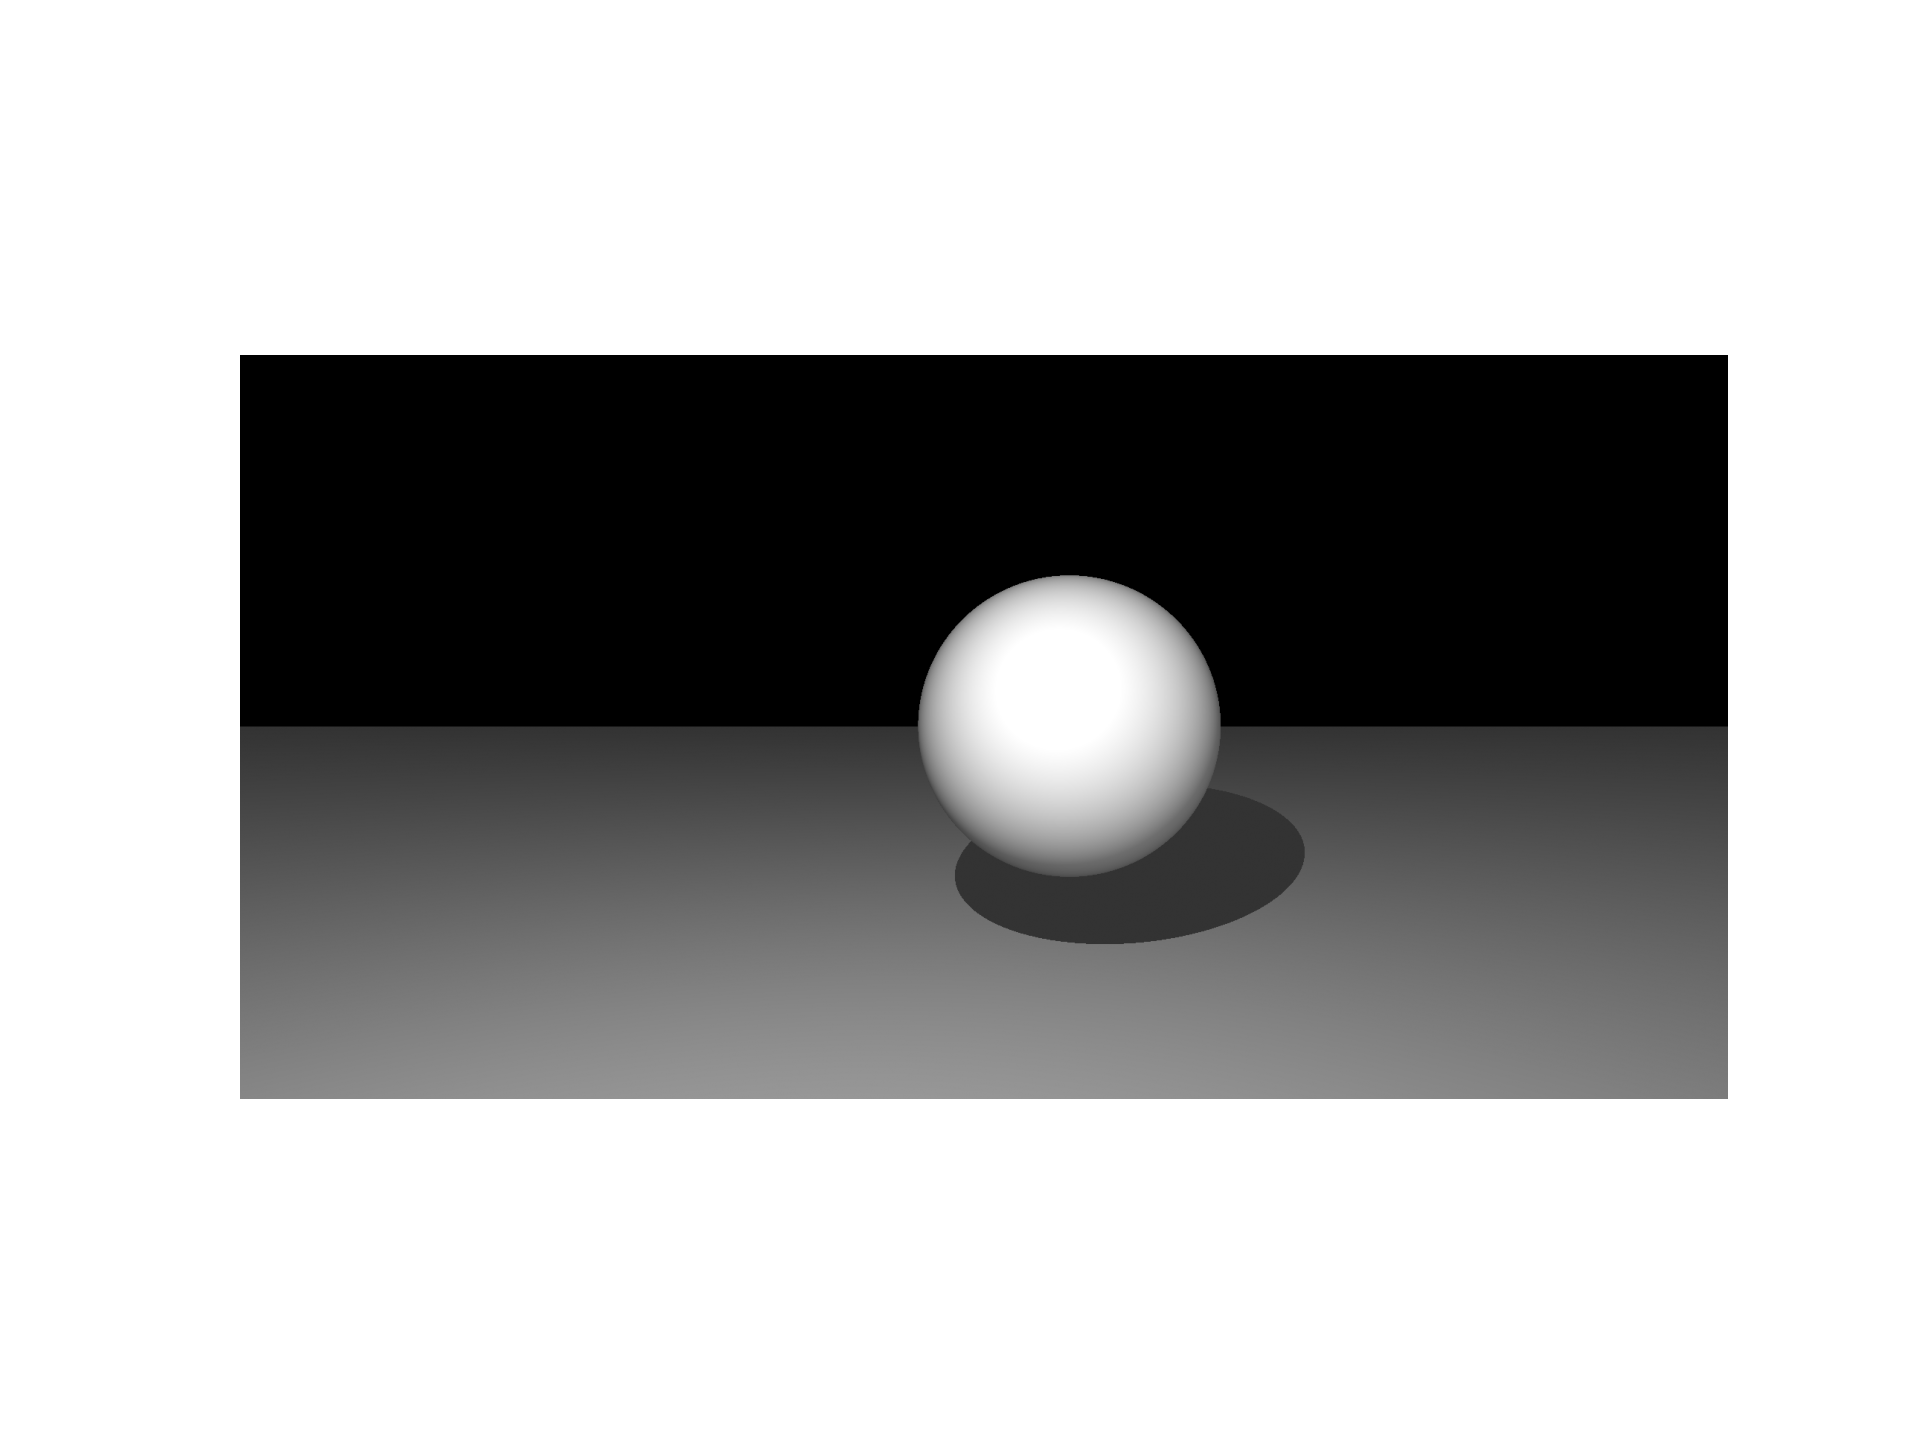
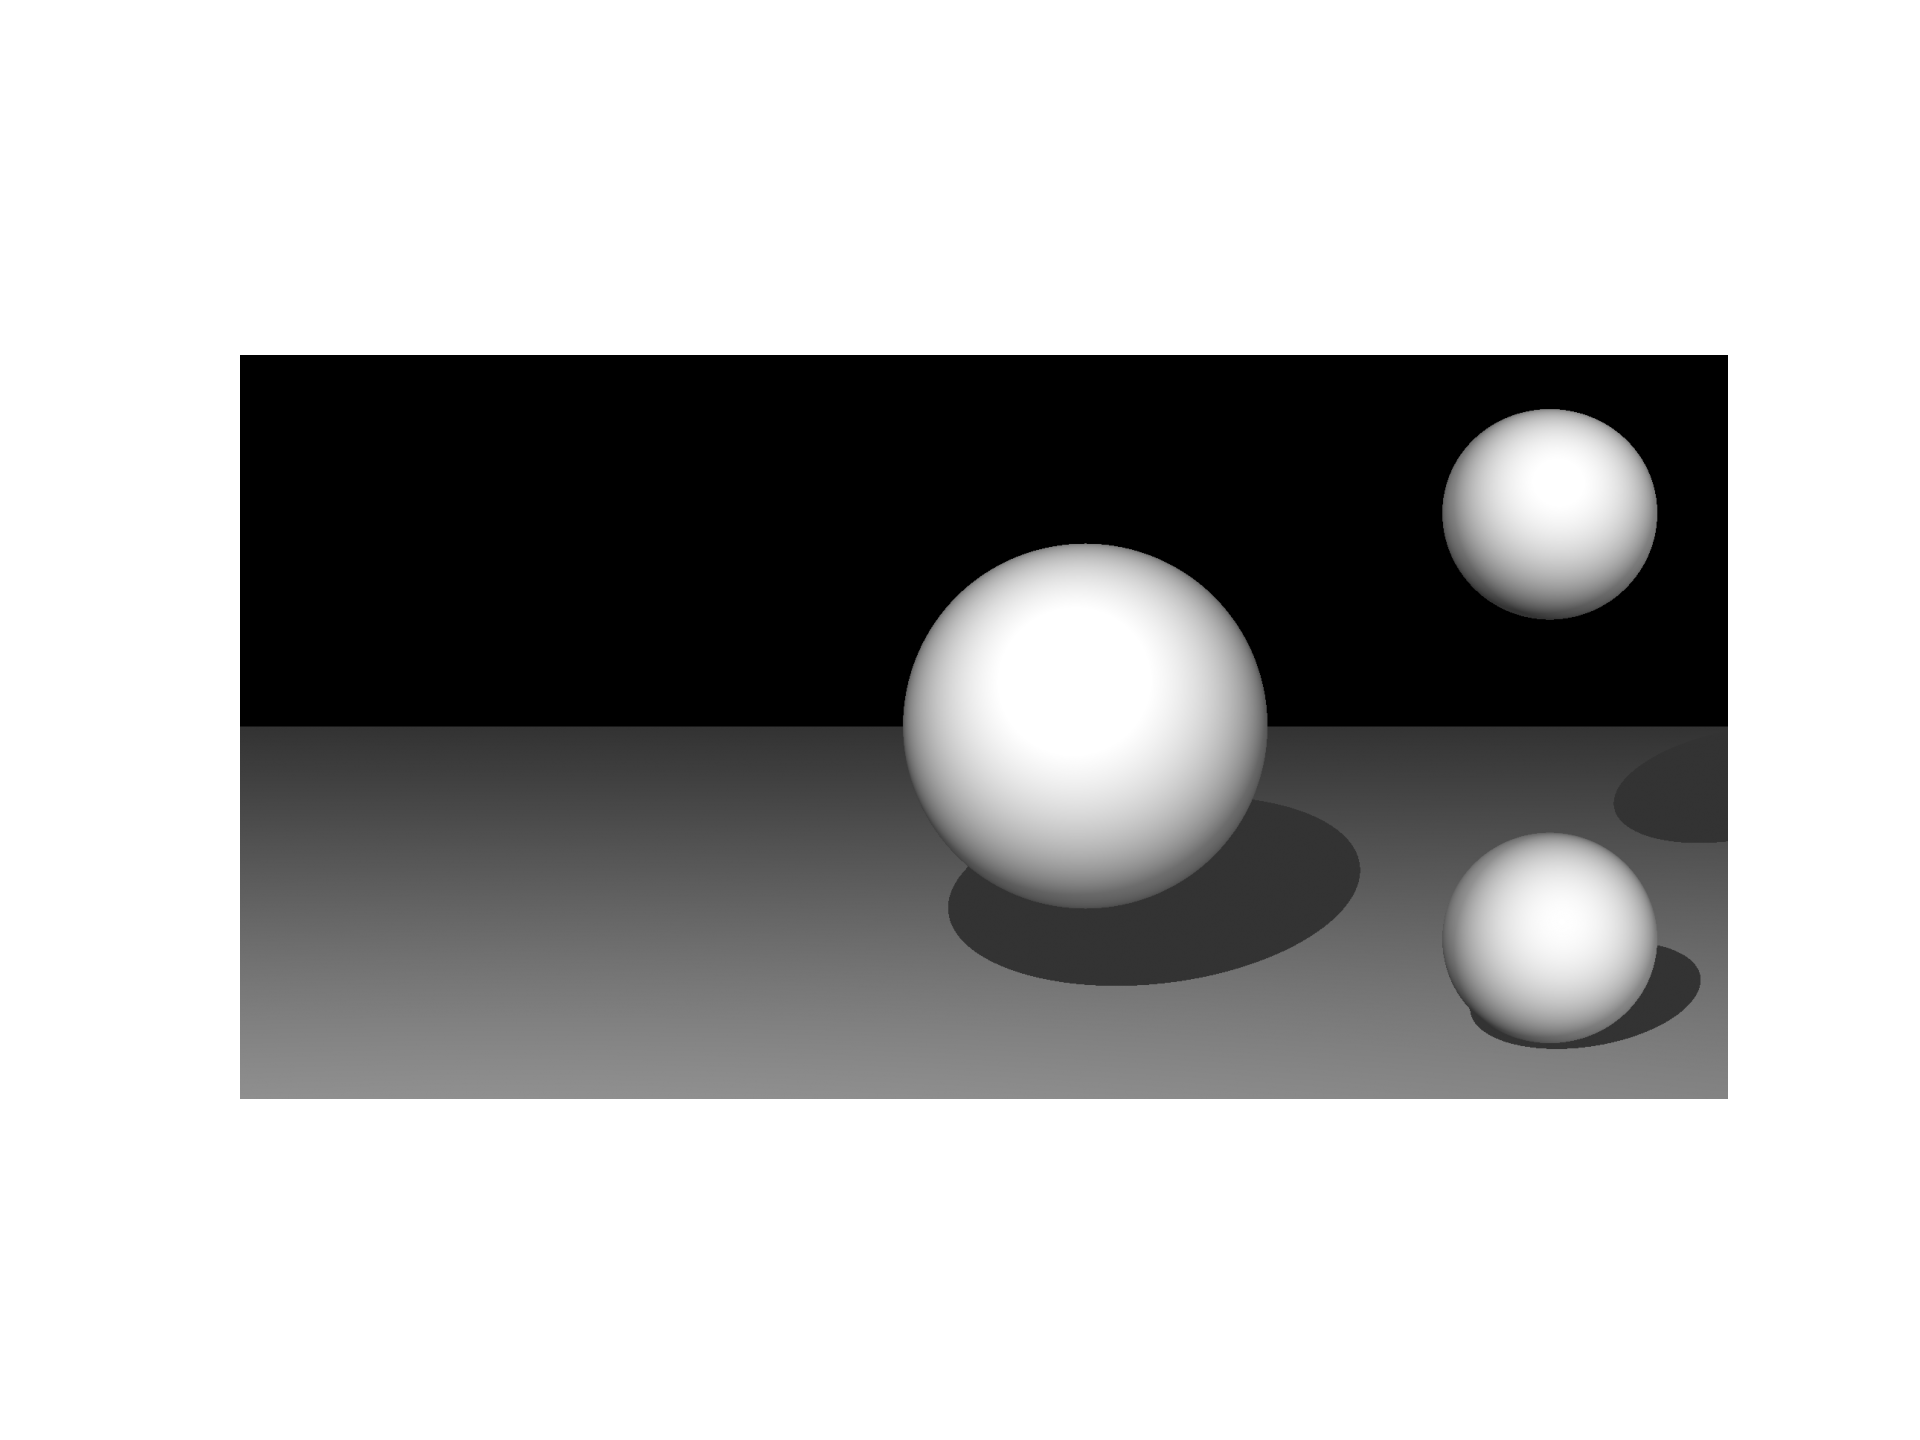
lol spherical screen

Changed region(s): [[0.4688, 0.375, 0.7188, 0.6875], [0.75, 0.5625, 0.9062, 0.75], [0.75, 0.2812, 0.875, 0.4375]]

diff --git a/render/scene.cpp b/render/scene.cpp
@@ -26,7 +26,9 @@ Matr3 Camera::calculate_rotate() {
 }
 
 Ray Camera::calculate_ray(unsigned x, unsigned y) {
-    Vec3 point(2 * tan(FOV_X / 2) * (x * 1.0 / X - 0.5), 1, 2 * tan(FOV_Y/2) * (y * 1.0 / Y - 0.5));
+    double alpha = FOV_X * (x * 1.0 / X - 0.5);
+    double beta = FOV_Y * (y * 1.0 / Y - 0.5);
+    Vec3 point(cos(beta) * sin(alpha), cos(beta) * cos(alpha), sin(beta));
     Vec3 screen_point = point + position;
     Vec3 direction(rotate * point);
     return Ray(position, direction.normalized(), x, y);
@@ -36,7 +38,7 @@ Camera::Camera(Vec3 position, Vec3 angles, double FOV_X, int X = WIDTH, int Y = 
     position(position), FOV_X(FOV_X), X(X), Y(Y) {
     for (short i = 0; i < 3; i++) this->angles[i] = angles[i];
     rotate = calculate_rotate();
-    FOV_Y = 2 * atan(tan(FOV_X / 2) * (Y * 1.0 / X));
+    FOV_Y = FOV_X * Y * 1.0 / X;
 }
 
 Camera::Camera() {
